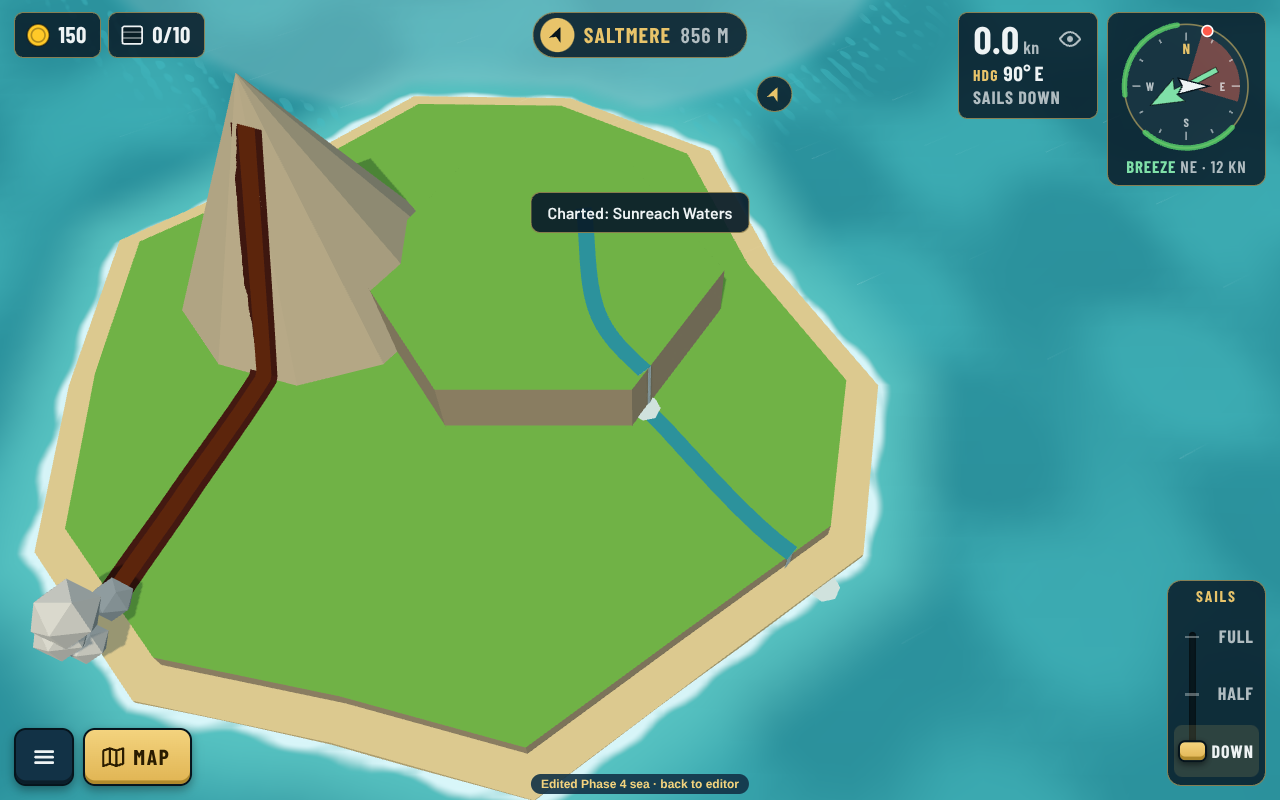
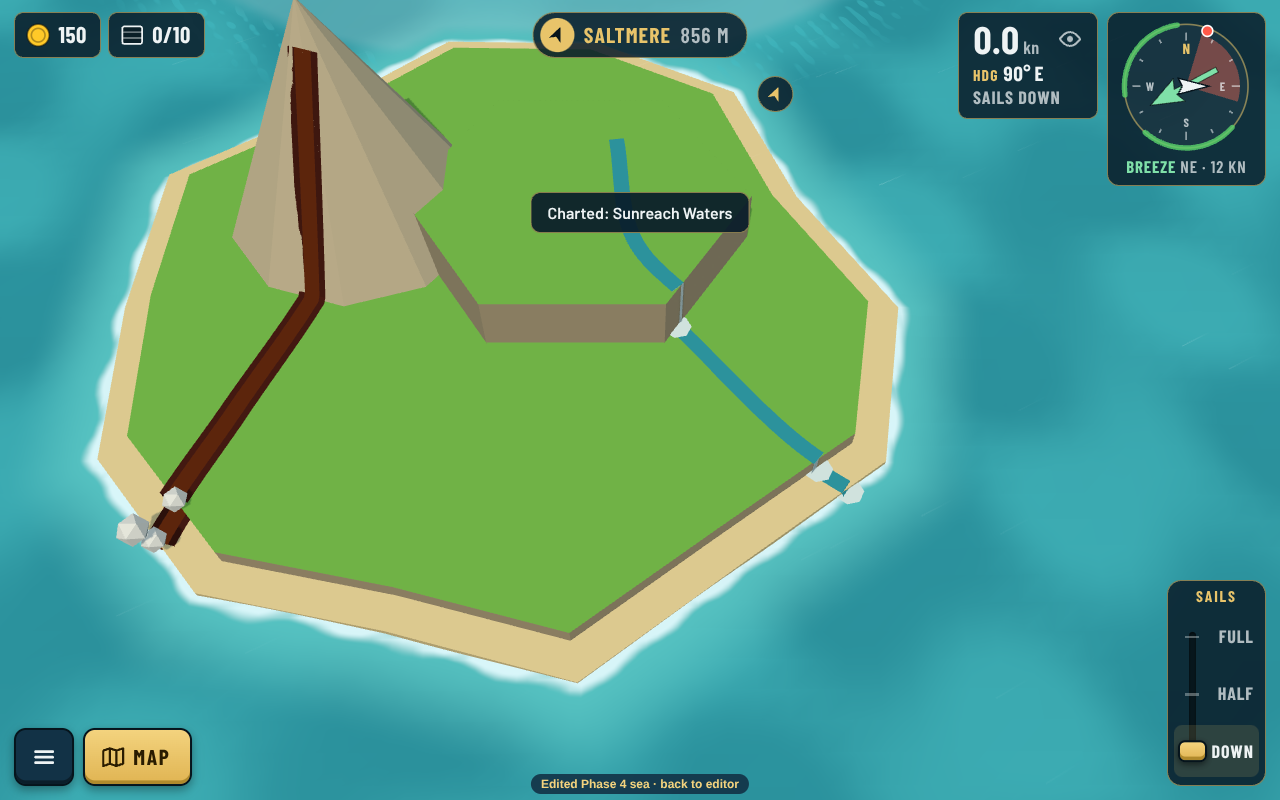
Rivers cross the beach into the sea (Guillaume); crater and lava cracks started
Claude-Session: https://claude.ai/code/session_01PH3uwRaeTtVDA46UXsSxPx

diff --git a/src/render/models/lavaCracks.ts b/src/render/models/lavaCracks.ts
@@ -1,0 +1,171 @@
+import * as THREE from 'three';
+import { coastDistance } from '../../sim/coast';
+import {
+  type IslandLayout,
+  type LandSurface,
+  peakBox,
+  peakHeight,
+  surfaceHeight,
+} from '../../sim/islandLayout';
+import { createRng } from '../../sim/rng';
+import { BEACH_TOP, glowing, paint } from './geometry';
+
+/**
+ * Glowing cracks on a ground that has a `glow` colour (decision 0171, lava fields): a seeded
+ * network of thin lines on its flat top, and streaks down a mountain's flanks from its crater.
+ * They are glowing parts, so they share the lit windows' material: dull red by day, bright at
+ * night, no extra draw call. Reference units round the island's origin, like the terrain.
+ */
+
+type Parts = THREE.BufferGeometry[];
+const LIFT = 0.03;
+
+/** A thin glowing line along points (radius units) at the land's height there. */
+function crackLine(
+  layout: IslandLayout,
+  points: [number, number][],
+  width: number,
+  R: number,
+  color: string,
+): THREE.BufferGeometry | null {
+  const positions: number[] = [];
+  for (let i = 1; i < points.length; i++) {
+    const [ax, az] = points[i - 1]!,
+      [bx, bz] = points[i]!;
+    const ha = surfaceHeight(layout, ax, az),
+      hb = surfaceHeight(layout, bx, bz);
+    if (ha === null || hb === null) continue;
+    const l = Math.hypot(bx - ax, bz - az) || 1;
+    // Tapering: thinner towards the ends of the crack.
+    const wa = width * (i === 1 ? 0.4 : 1),
+      wb = width * (i === points.length - 1 ? 0.3 : 1);
+    const nx = -(bz - az) / l,
+      nz = (bx - ax) / l;
+    const ya = Math.max(ha * R, BEACH_TOP) + LIFT,
+      yb = Math.max(hb * R, BEACH_TOP) + LIFT;
+    const A1 = [(ax + nx * wa) * R, ya, (az + nz * wa) * R],
+      A2 = [(ax - nx * wa) * R, ya, (az - nz * wa) * R],
+      B1 = [(bx + nx * wb) * R, yb, (bz + nz * wb) * R],
+      B2 = [(bx - nx * wb) * R, yb, (bz - nz * wb) * R];
+    for (const [p, q, r] of [
+      [A1, B2, A2],
+      [A1, B1, B2],
+    ]) {
+      // Wound to face up.
+      const ny = (q![2]! - p![2]!) * (r![0]! - p![0]!) - (q![0]! - p![0]!) * (r![2]! - p![2]!);
+      positions.push(...p!, ...(ny >= 0 ? [...q!, ...r!] : [...r!, ...q!]));
+    }
+  }
+  if (!positions.length) return null;
+  const g = new THREE.BufferGeometry();
+  g.setAttribute('position', new THREE.Float32BufferAttribute(positions, 3));
+  return glowing(paint(g, color));
+}
+
+/** Is this point on the surface's own top (not under higher ground, not near its edge)? */
+function onTop(layout: IslandLayout, s: LandSurface, x: number, z: number) {
+  if (coastDistance(x, z, s.outline).distance > -0.02) return false;
+  if (s.holes?.some((h) => coastDistance(x, z, h).distance < 0.02)) return false;
+  const h = surfaceHeight(layout, x, z);
+  return h !== null && Math.abs(h - s.height) < 1e-6;
+}
+
+/** Cracks over a flat surface: about one per 0.02 square radius units of its box. */
+function flatCracks(layout: IslandLayout, s: LandSurface, seed: number, R: number, color: string) {
+  const rng = createRng(seed);
+  const xs = s.outline.map((p) => p[0]),
+    zs = s.outline.map((p) => p[1]);
+  const [x0, x1, z0, z1] = [Math.min(...xs), Math.max(...xs), Math.min(...zs), Math.max(...zs)];
+  const count = Math.min(40, Math.round(((x1 - x0) * (z1 - z0)) / 0.02));
+  const out: Parts = [];
+  for (let i = 0, tries = 0; i < count && tries < count * 6; tries++) {
+    const x = x0 + rng() * (x1 - x0),
+      z = z0 + rng() * (z1 - z0);
+    if (!onTop(layout, s, x, z)) continue;
+    i++;
+    // A wandering line with a fork now and then.
+    let a = rng() * Math.PI * 2;
+    const pts: [number, number][] = [[x, z]];
+    const steps = 3 + Math.floor(rng() * 4);
+    for (let k = 0; k < steps; k++) {
+      a += (rng() - 0.5) * 1.4;
+      const [px, pz] = pts[pts.length - 1]!;
+      const step = 0.025 + rng() * 0.03;
+      const next: [number, number] = [px + Math.cos(a) * step, pz + Math.sin(a) * step];
+      if (!onTop(layout, s, next[0], next[1])) break;
+      pts.push(next);
+    }
+    if (pts.length < 2) continue;
+    const line = crackLine(layout, pts, 0.004 + rng() * 0.003, R, color);
+    if (line) out.push(line);
+    if (pts.length > 3 && rng() < 0.4) {
+      const m = pts[Math.floor(pts.length / 2)]!;
+      const b = a + (rng() < 0.5 ? 1 : -1) * (0.8 + rng() * 0.6);
+      const end: [number, number] = [m[0] + Math.cos(b) * 0.04, m[1] + Math.sin(b) * 0.04];
+      if (onTop(layout, s, end[0], end[1])) {
+        const fork = crackLine(layout, [m, end], 0.003, R, color);
+        if (fork) out.push(fork);
+      }
+    }
+  }
+  return out;
+}
+
+/** Streaks down a mountain's flanks, from its rim or near its top, part way to its foot. */
+function peakCracks(layout: IslandLayout, s: LandSurface, seed: number, R: number, color: string) {
+  const rng = createRng(seed);
+  const { cx, cz, rx, rz } = peakBox(s);
+  const top = s.crater ?? 0.08;
+  const out: Parts = [];
+  const n = 7;
+  for (let i = 0; i < n; i++) {
+    const a = ((i + rng() * 0.6) / n) * Math.PI * 2;
+    const reach = top + 0.25 + rng() * 0.35;
+    const pts: [number, number][] = [];
+    let wobble = 0;
+    for (let k = 0; k <= 6; k++) {
+      const t = top + ((reach - top) * k) / 6;
+      wobble += (rng() - 0.5) * 0.18;
+      const x = cx + Math.sin(a + wobble) * t * rx,
+        z = cz + Math.cos(a + wobble) * t * rz;
+      if (peakHeight(s, x, z) === null) break;
+      pts.push([x, z]);
+    }
+    const line = crackLine(layout, pts, 0.006 + rng() * 0.004, R, color);
+    if (line) out.push(line);
+  }
+  return out;
+}
+
+/** Every crack on the surfaces whose ground glows. */
+export function lavaCracks(
+  layout: IslandLayout,
+  glowOf: (material: string) => string | undefined,
+  seed: number,
+  R: number,
+): Parts {
+  const out: Parts = [];
+  layout.surfaces.forEach((s, i) => {
+    const color = glowOf(s.material);
+    if (!color) return;
+    const k = seed * 31 + i * 7919;
+    out.push(
+      ...(s.shape === 'peak'
+        ? peakCracks(layout, s, k, R, color)
+        : flatCracks(layout, s, k, R, color)),
+    );
+  });
+  return out;
+}
+
+/** A crater's pool of lava (or dark rock), level with its rim, in reference units. */
+export function craterPool(s: LandSurface, R: number, color: string, glow: boolean) {
+  const { cx, cz, rx, rz } = peakBox(s);
+  const r = (s.crater ?? 0) * 0.8;
+  const g = new THREE.CircleGeometry(R * r, 10)
+    .rotateX(-Math.PI / 2)
+    .scale(rx, 1, rz)
+    .translate(cx * R, s.height * R + 0.02, cz * R);
+  const pool = paint(g, color);
+  return glow ? glowing(pool) : pool;
+}

diff --git a/src/render/models/towns.ts b/src/render/models/towns.ts
@@ -2,7 +2,7 @@ import * as THREE from 'three';
 import type { LandmarkKind } from '../../sim/map';
 import { homeDesign } from '../../sim/home';
 import { type Rng, createRng, range } from '../../sim/rng';
-import { blobShape, paint, paintFaces, slab } from './geometry';
+import { BEACH_TOP, blobShape, isGlowing, paint, paintFaces, slab } from './geometry';
 import { type GroundColors, groundColors, styleColor } from '../../data/grounds';
 import { coastDistance, insetOutline } from '../../sim/coast';
 import { landmarkParts } from './landmarks';
@@ -68,6 +68,7 @@ import {
 } from './props';
 import type { IslandCheckKit } from '../../sim/islandChecks';
 import { riverParts } from './rivers';
+import { craterPool, lavaCracks } from './lavaCracks';
 
 /**
  * Settlement growth (decision 0060): a port island's town grows in four steps, hamlet, village,
@@ -493,9 +494,6 @@ function quarry(
   }
 }
 
-/** Sand top of every port island's beach, in reference units. */
-const BEACH_TOP = 0.3;
-
 /** Height a prop stands at, in reference units: the ground under it, else the sand, else the sea. */
 export function standHeight(layout: IslandLayout, x: number, z: number, R: number) {
   const h = layoutGround(layout, x, z, 0);
@@ -593,12 +591,19 @@ export function designedTownParts(
       const { cx, cz, rx, rz } = peakBox(s);
       const mountainBase = (s.base ?? 0) * R;
       const height = s.height * R - mountainBase;
-      // A snow line (capAbove) needs rings up the cone to fall on; plain peaks keep one.
-      const g = new THREE.ConeGeometry(R, height, PEAK_SEGMENTS, look.cap ? 4 : 1)
+      // A snow line (capAbove) needs rings up the cone to fall on; plain peaks keep one. A
+      // volcano's cone is cut off at its crater's rim (decision 0171).
+      const rings = look.cap ? 4 : 1;
+      const g = (
+        s.crater
+          ? new THREE.CylinderGeometry(R * s.crater, R, height, PEAK_SEGMENTS, rings)
+          : new THREE.ConeGeometry(R, height, PEAK_SEGMENTS, rings)
+      )
         .scale(rx, 1, rz)
         .translate(cx * R, (s.height * R + mountainBase) / 2, cz * R);
       const line = mountainBase + height * (look.capAbove ?? 1);
       out.push(paintFaces(g, look.peak, (_x, y) => (look.cap && y > line ? look.cap : undefined)));
+      if (s.crater) out.push(craterPool(s, R, look.glow ?? look.side[0]!, !!look.glow));
     } else terrain(s.outline, BEACH_TOP, s.height * R, look, s.holes);
   }
   // Sloped edges (decision 0096 §4): a ramp down from the top, outward, to the ground below.
@@ -606,7 +611,8 @@ export function designedTownParts(
     if (s.slope && s.shape !== 'peak') out.push(ramp(layout, s, R, ground(s.material).top));
   // Ramps that climb along their length (decision 0123).
   for (const r of layout.ramps) out.push(...rampBand(r, R, ground(r.material)));
-  for (const g of out) g.userData.islandTerrain = true;
+  // Glowing parts (a crater's lava) go to the windows' mesh, not the terrain's.
+  for (const g of out) if (!isGlowing(g)) g.userData.islandTerrain = true;
   const pathColor = styleColor('path', design.style) as string;
   for (const lane of design.lanes) {
     if (lane.kind === 'stairs') stairs(out, lane, R);
@@ -654,6 +660,8 @@ export function designedTownParts(
     out.push(paint(water, '#319eae'));
     for (const g of out.slice(lakeStart)) g.userData.islandTerrain = true;
   }
+  // Glowing cracks on lava fields and down a volcano's flanks (decision 0171).
+  out.push(...lavaCracks(layout, (m) => ground(m).glow, design.seed, R));
   // Rivers of water or lava (decision 0167) lie on the ground built above.
   for (const river of design.rivers ?? [])
     if (atLevel(river, level) && river.points.length >= 2)

diff --git a/src/render/models/rivers.ts b/src/render/models/rivers.ts
@@ -1,7 +1,7 @@
 import * as THREE from 'three';
 import type { RiverDef } from '../../data/islands';
 import { type IslandLayout, fallsBetween, surfaceHeight } from '../../sim/islandLayout';
-import { glowing, paint } from './geometry';
+import { BEACH_TOP, glowing, paint } from './geometry';
 
 /**
  * Rivers of water and lava (decision 0167), in reference units round the island's origin: a
@@ -71,7 +71,8 @@ export function riverParts(layout: IslandLayout, river: RiverDef, R: number): Pa
         { half: river.width * 0.42, lift: LIFT, color: RIVER_COLORS.lava, glow: true },
       ]
     : [{ half: river.width * 0.5, lift: LIFT, color: RIVER_COLORS.water, glow: false }];
-  const y = (h: number | null) => (h === null ? -0.15 : h * R);
+  // On the beach the land's top is the sand's, above the sea.
+  const y = (h: number | null) => (h === null ? -0.15 : Math.max(h * R, BEACH_TOP));
   // Falls at cliff edges, and off the land into the sea when the ground meets the water high.
   const drops = samples.map((b, i) => {
     const a = samples[i - 1];

diff --git a/src/render/models/geometry.ts b/src/render/models/geometry.ts
@@ -24,6 +24,9 @@ export function paint(geometry: THREE.BufferGeometry, color: THREE.ColorRepresen
   return g;
 }
 
+/** Sand top of every designed island's beach, in reference units. */
+export const BEACH_TOP = 0.3;
+
 /** Window glass: most windows are lit at night, a few stay dark (decision 0068). */
 const LIT_GLASS = '#ffd98a';
 const DARK_GLASS = '#2e3a46';

diff --git a/docs/reviews/rivers/README.md b/docs/reviews/rivers/README.md
@@ -5,3 +5,4 @@ A test island (not shipped) made with `npm run island -- new river-demo --steps 
 - `day.png`: the lava river runs from the mountain's top down its flank, over the low ground and into the sea with steam; the stream falls off the plateau's cliff (white sheet and foam) and runs into the sea.
 - `night.png`: the same at night; lava glows like lit windows.
 - `builder.png`: the island builder's Lanes tab with the River and Lava river tools.
+- `close.png`: closer, the lava crossing the low ground and the beach.
